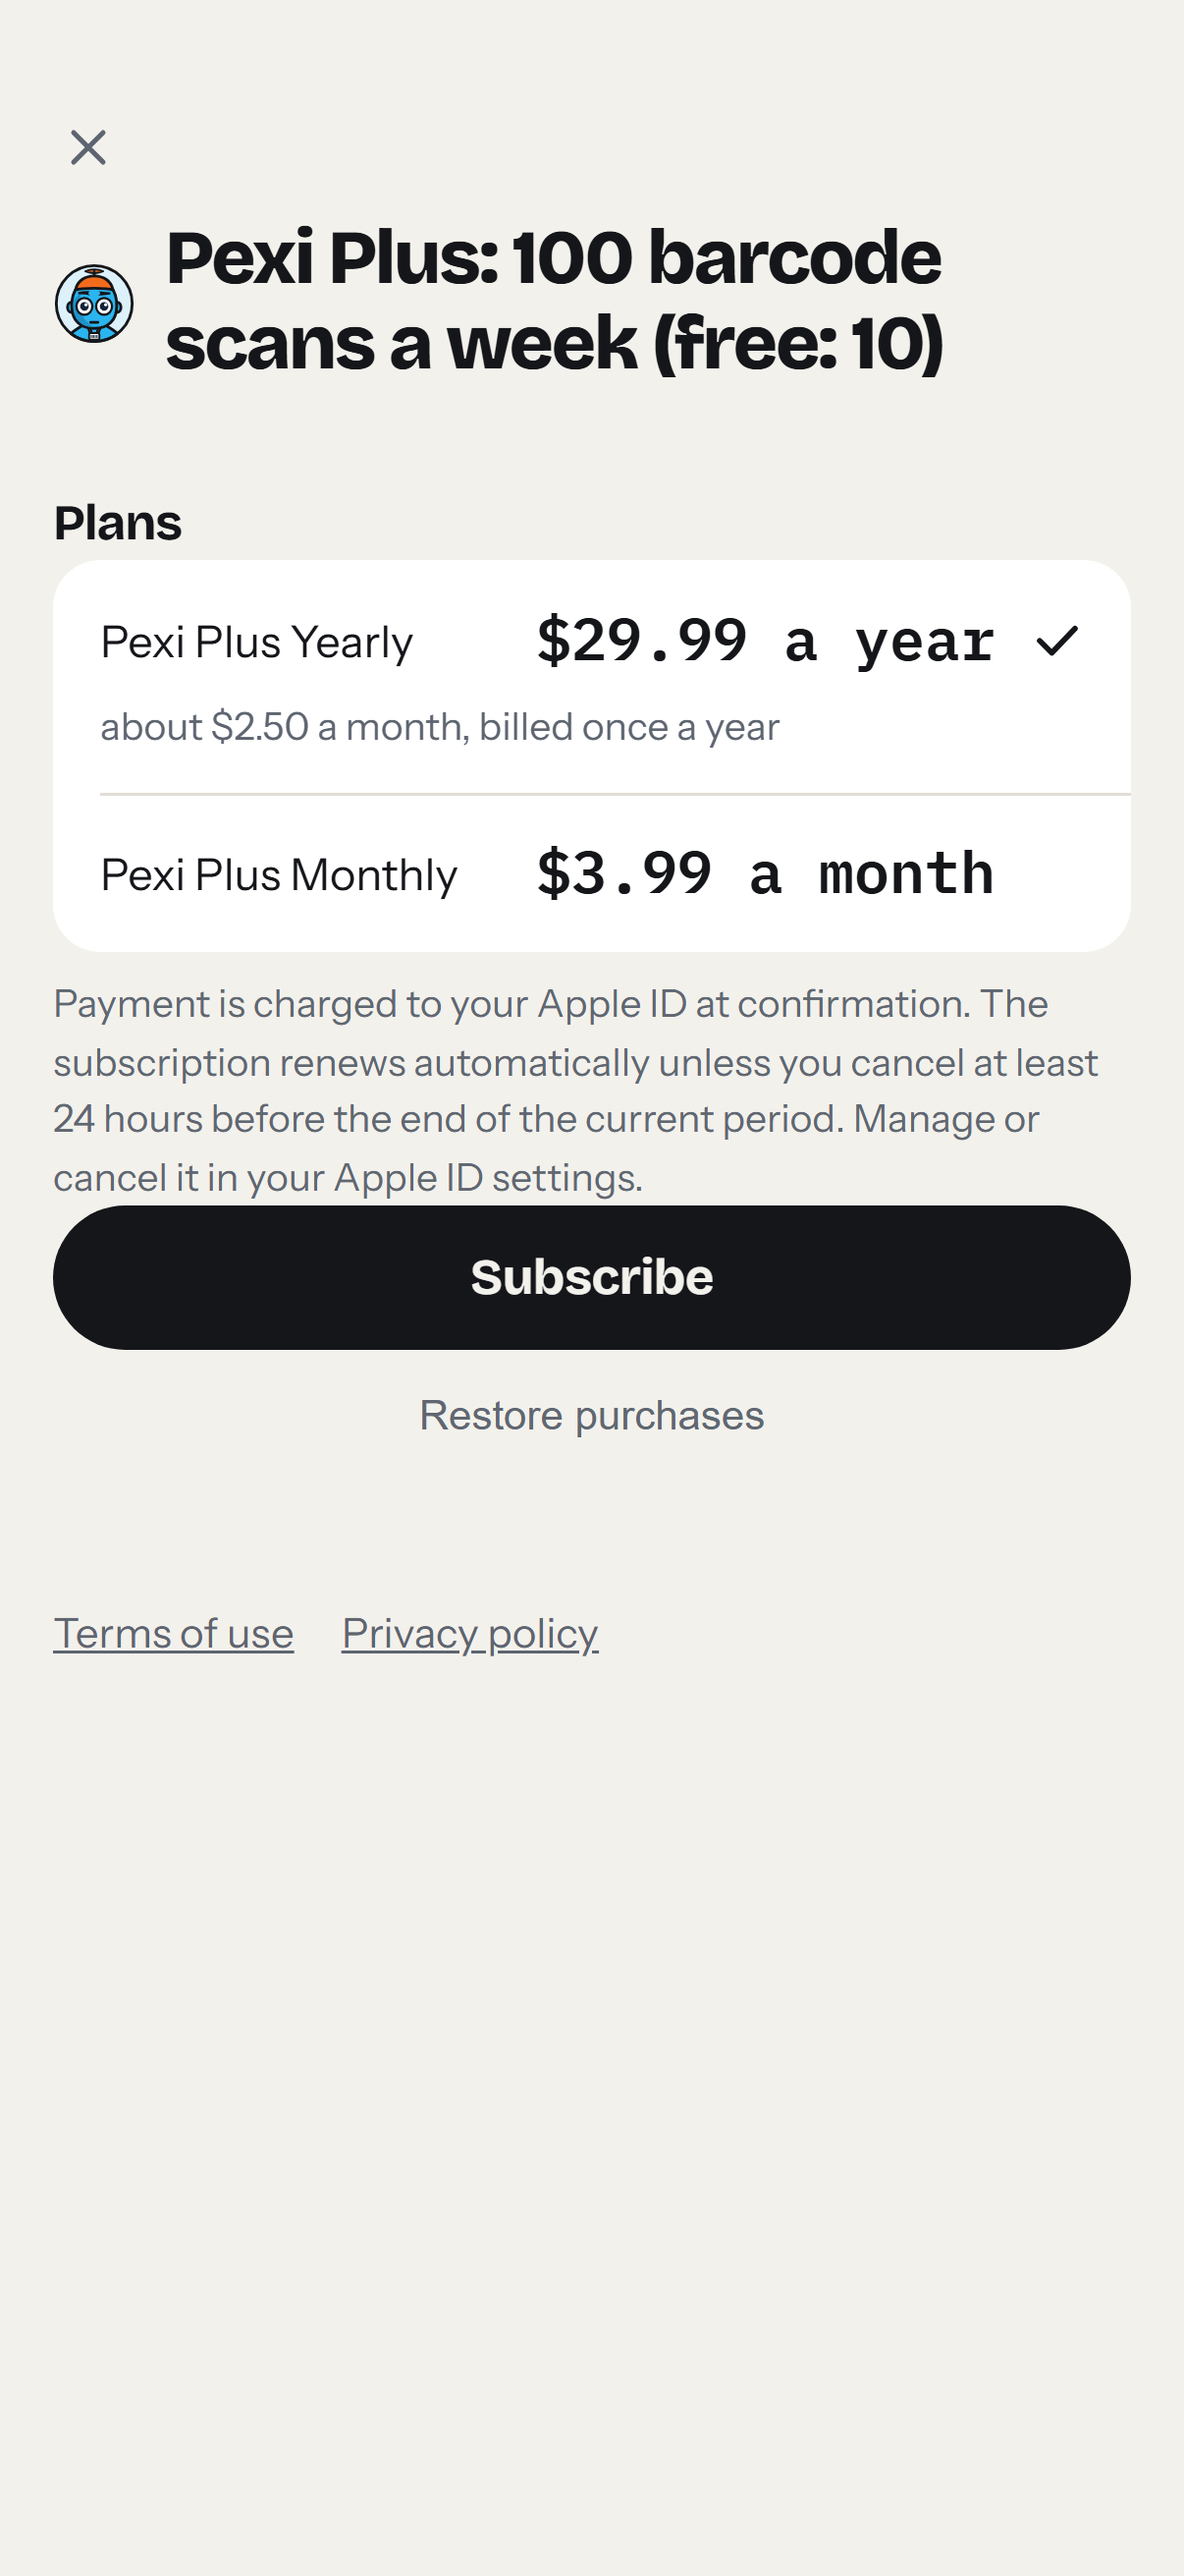
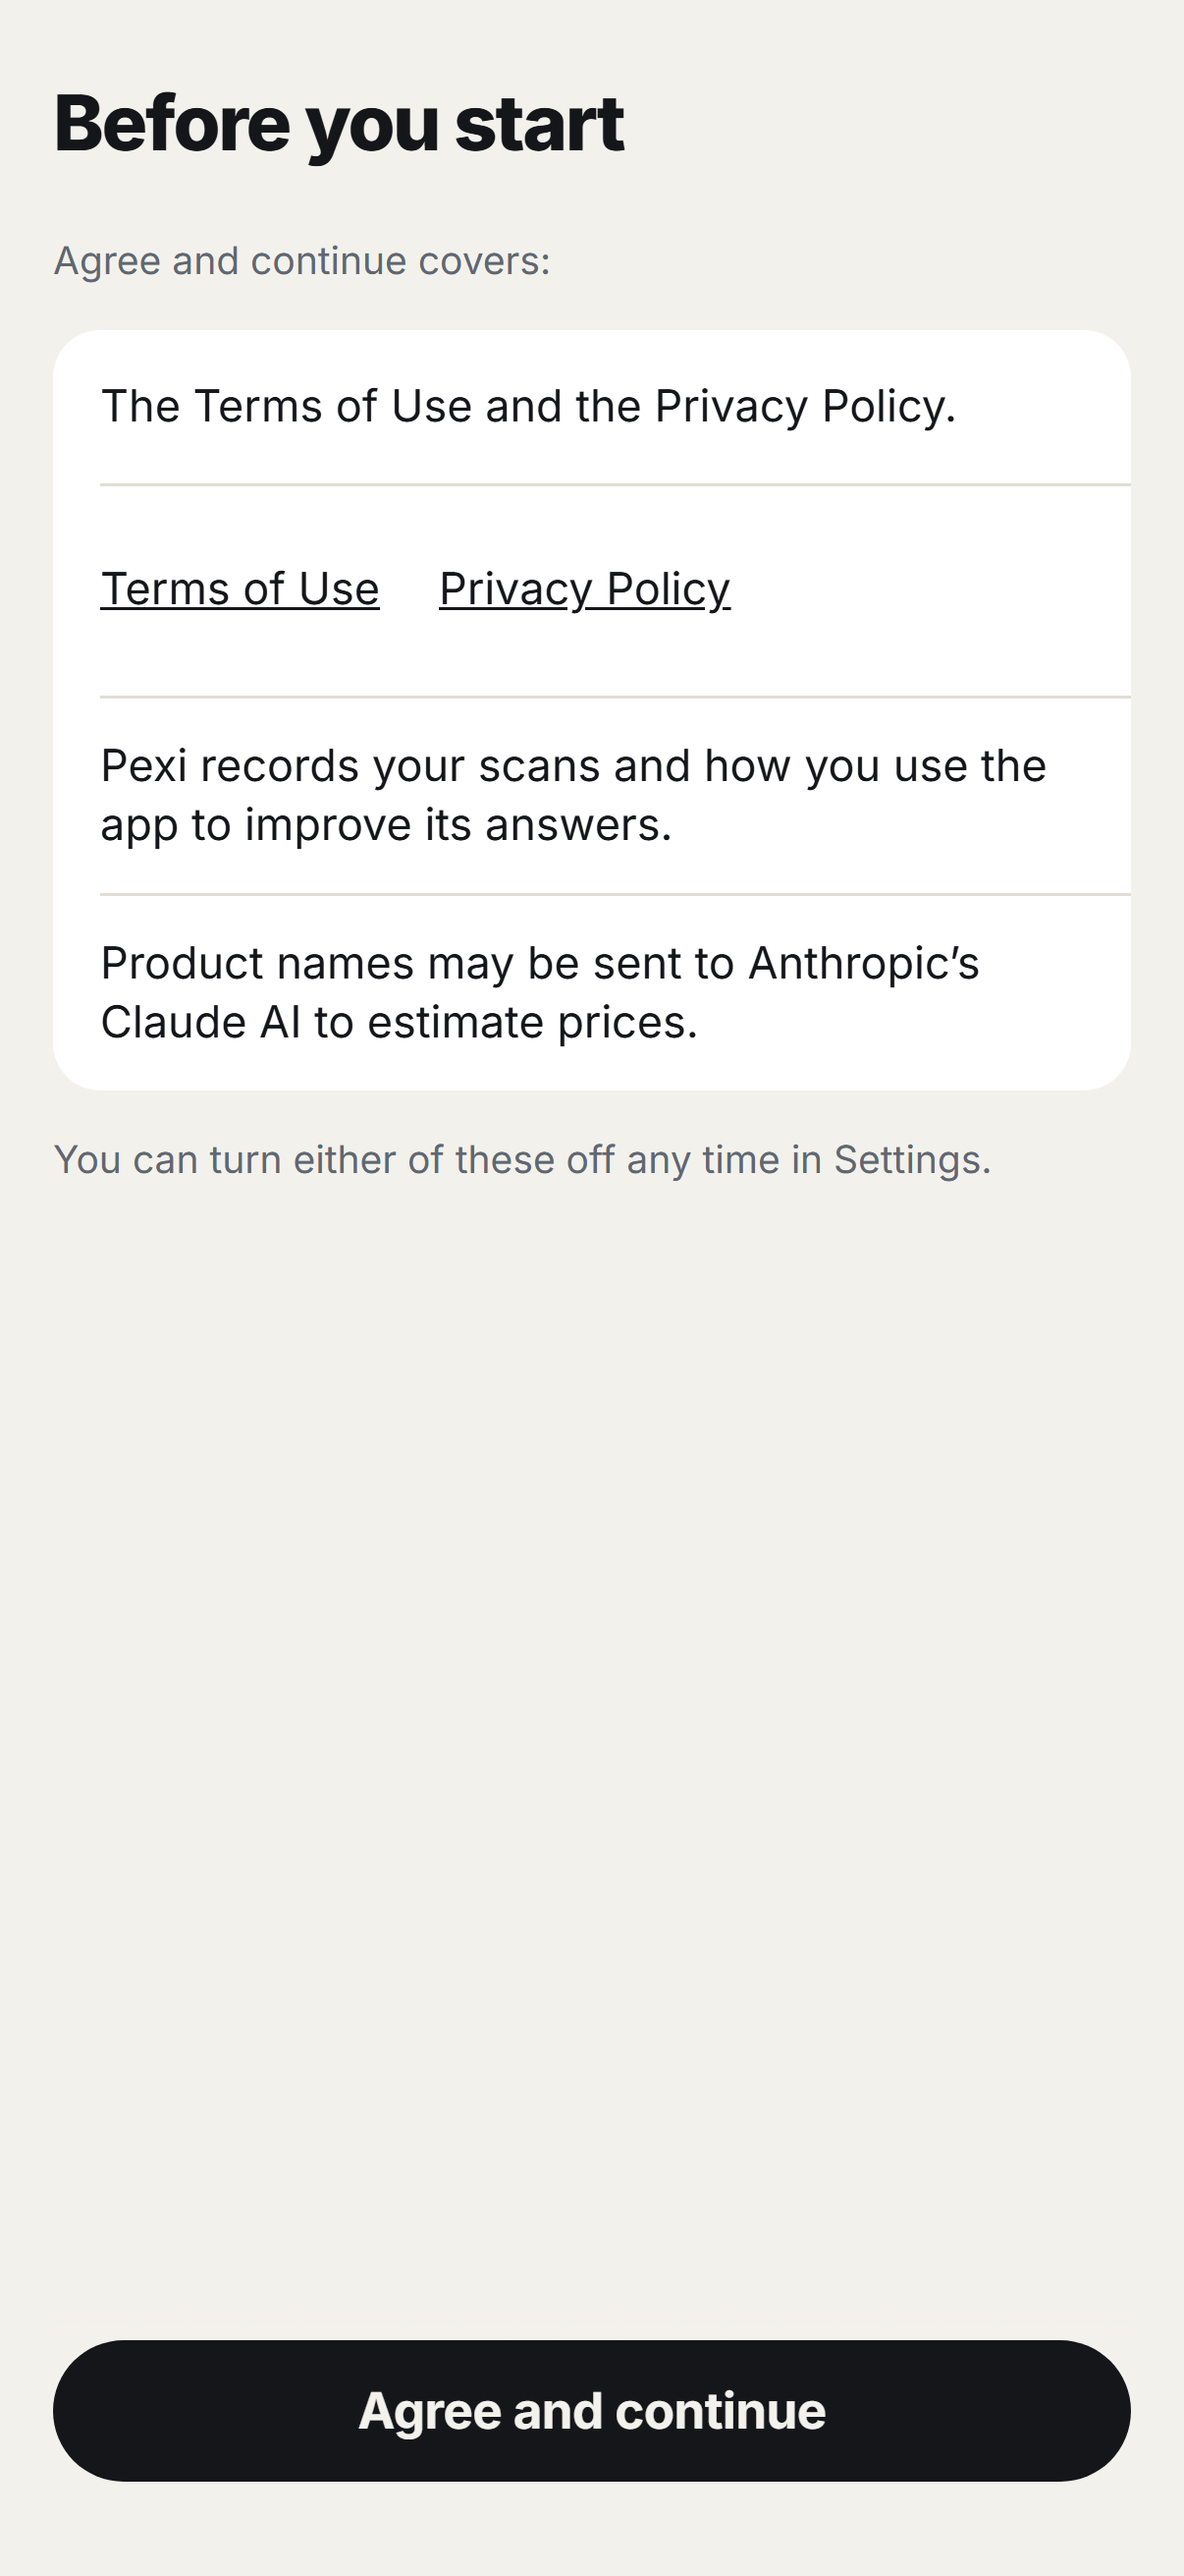
[store] App Store screenshots recaptured for build 10+ screens in the listing's caption order, through a write guard that keeps typed prices out of the live data
scripts/appstore-screenshots.cjs rewritten for the current app (the five-screen welcome, the
Type name chip, Settings in place of You) and for listing.md's five captions: 01 "Great price"
on Lactantia Butter 454 g at $4.99 (Loblaws Toronto's real sale price, seen 2026-11-21, read from
the live answer), 02 the range chart with the shops' prices, 03 typed search ("kraft peanut
butter"; plain "peanut butter" ranks a US 12 oz jar and a Larabar first), 04 your price ranges,
05 Saved with three products, 1 under the usual; 06 the paywall for the purchase review.

The guard: a typed price would be saved as a real shopper price (shopper-contribution.ts) and
filed by /api/scan-price, so every request goes through a route that strips shelfPriceCents,
askingCents, priceCents and storeName from query and body, answers scan-price, correction,
scan-rating and watch writes locally, and fails the run on a price it cannot strip. The verdict
is still the live one: the phone places the typed price on the live range (shopperFor). Every
run printed "stripped the price from /api/identify; blocked /api/scan-price" and nothing else.

Waits are on the answer itself, not fixed delays (one shot caught "Looking it up"). Each of the
18 files checked for Apple's exact size from its PNG header: iPhone 6.9" 1260x2736, 6.3"
1206x2622, iPad 13" 2064x2752. Old-screen shots removed. Uploading them is Jamin's (launch gaps 12).
[…]

diff --git a/docs/launch-gaps-2026-11-06.md b/docs/launch-gaps-2026-11-06.md
@@ -142,7 +142,15 @@ and restore → 4 crash reports → 12 screenshots (21 included) → 9 torch.
     created (item 3b). Old text:
     **[Jamin] Known wrong cached answer for barcode 0068100084245 still in both caches** (QUEUE
     7.19). From notes.
-12. **[Aurik] Screenshots: 0 uploaded on every size.** Checked. iPhone 6.9" and iPad 13" (iPad
+12. **[Aurik] Screenshots: 0 uploaded on every size.** **2026-11-24 (Aurik's PC): RECAPTURED for
+    build 10+ screens, in the caption order of docs/store/listing.md** (verdict "Great price" at
+    Loblaws' real $4.99 sale price, the range chart with the shop list, typed search, price ranges,
+    Saved; the paywall for the purchase review), iPhone 6.9" and 6.3" and iPad 13", each checked
+    for Apple's pixel size by `scripts/appstore-screenshots.cjs`, which now routes every request
+    through a write guard (the typed price is stripped before it leaves; scan-price is never sent).
+    **To upload (Jamin's account):** replace the 5 shots uploaded 2026-11-09 (old screens: the
+    camera, a Skip answer, You) with 01 to 05, and add the captions from listing.md. Older text:
+    Checked. iPhone 6.9" and iPad 13" (iPad
     simulator renders the app, reported; iPhone simulator has no Pexi installed), plus one Plus
     screen shot for each subscription's review (21).
     **iPhone DONE 2026-11-09 (Jamin's PC, taken over on his "do this"):** 5 shots captured from
